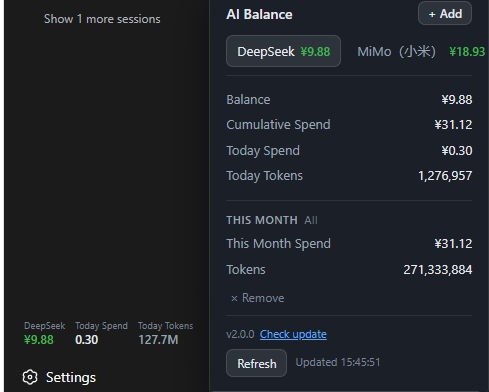
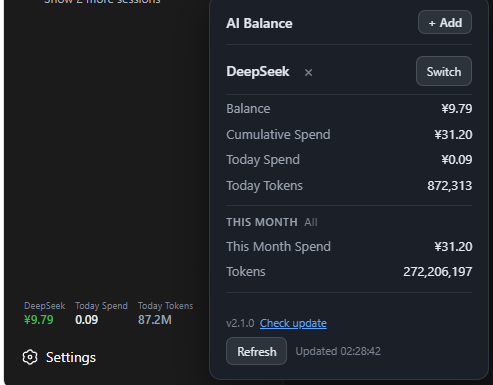
2.2.0

diff --git a/lib/client.js b/lib/client.js
@@ -66,6 +66,7 @@ window.__ModuleLoader__.load({
         spend: "消费",
         needSetup: "需设置",
         remove: "移除",
+        switch: "更换",
         mimoCookieHint: "MiMo 余额需用浏览器登录 Cookie 查询。请重新在浏览器登录 platform.xiaomimimo.com 后，将 Cookie 更新到 ~/.dsh/ai-balances.json 对应条目中。",
         readFailed: "读取失败：{0}",
         rawPrefix: "原始响应：",
@@ -148,6 +149,7 @@ window.__ModuleLoader__.load({
         spend: "Spend",
         needSetup: "Setup",
         remove: "Remove",
+        switch: "Switch",
         mimoCookieHint: "MiMo balance requires a browser login Cookie. Please log in to platform.xiaomimimo.com again, then update the Cookie in ~/.dsh/ai-balances.json.",
         readFailed: "Read failed: {0}",
         rawPrefix: "Raw response: ",
@@ -317,16 +319,17 @@ window.__ModuleLoader__.load({
         ".dshBalanceToday[data-state=err],.dshBalanceTodayTok[data-state=err]{color:#f85149}",
         ".dshBalanceToday[data-state=loading],.dshBalanceTodayTok[data-state=loading]{color:var(--dsw-alias-label-tertiary,#7b8494)}",
         ".dshBalanceToday[data-state=muted],.dshBalanceTodayTok[data-state=muted]{color:var(--dsw-alias-label-tertiary,#7b8494)}",
-        ".dshBalancePop{position:fixed;z-index:9999;width:280px;max-height:calc(100vh - 16px);overflow-y:auto;box-sizing:border-box;background:#1b1f27;border:1px solid rgba(255,255,255,.1);border-radius:12px;box-shadow:0 12px 40px rgba(0,0,0,.5);padding:14px 16px;color:#e6e9ef;font-size:13px;line-height:1.5}",
+        ".dshBalancePop{position:fixed;z-index:9999;width:280px;max-height:calc(100vh - 16px);overflow-x:hidden;overflow-y:auto;box-sizing:border-box;background:#1b1f27;border:1px solid rgba(255,255,255,.1);border-radius:12px;box-shadow:0 12px 40px rgba(0,0,0,.5);padding:14px 16px;color:#e6e9ef;font-size:13px;line-height:1.5}",
         ".dshBalancePop::-webkit-scrollbar{width:8px}",
         ".dshBalancePop::-webkit-scrollbar-thumb{background:rgba(255,255,255,.18);border-radius:4px}",
-        ".dshBalancePop h4{margin:0 0 10px;font-size:14px;font-weight:600;display:flex;align-items:center;gap:8px}",
+        ".dshBalancePop h4{margin:0 0 10px;padding-bottom:10px;border-bottom:1px solid rgba(255,255,255,.08);font-size:14px;font-weight:600;display:flex;align-items:center;gap:8px}",
         ".dshBalanceRow{display:flex;justify-content:space-between;gap:12px;padding:3px 0}",
         ".dshBalanceRow span:first-child{color:#9aa4b2}",
         ".dshBalanceRow span:last-child{font-variant-numeric:tabular-nums}",
+        ".dshBalanceDivider{height:0;margin:8px 0;border-top:1px solid rgba(255,255,255,.08)}",
         // Footer 内的按钮不许被 flex 压缩成单字符宽度导致文字竖排（英文 label 更长时容易触发）。
         ".dshBalanceFoot .dshBalanceBtn,.dshBalanceFoot .dshBalanceVersionBtn{white-space:nowrap;flex-shrink:0}",
-        ".dshBalanceFoot{display:flex;flex-wrap:wrap;justify-content:space-between;align-items:center;gap:6px;margin-top:12px;padding-top:10px;border-top:1px solid rgba(255,255,255,.08);color:#7b8494;font-size:11px}",
+        ".dshBalanceFoot{display:flex;flex-wrap:wrap;justify-content:space-between;align-items:center;gap:6px;margin-top:12px;padding-top:10px;color:#7b8494;font-size:11px}",
         ".dshBalanceBtn{appearance:none;cursor:pointer;background:#2d333b;color:#e6e9ef;border:1px solid rgba(255,255,255,.12);border-radius:7px;padding:4px 10px;font:inherit;font-size:12px}",
         ".dshBalanceBtn:hover{background:#363d47}",
         ".dshBalanceVersion{display:flex;align-items:center;gap:6px;font-size:11px;color:#7b8494}",
@@ -340,7 +343,7 @@ window.__ModuleLoader__.load({
         ".dshBalanceDot[data-state=ok]{background:#3fb950}",
         ".dshBalanceDot[data-state=err]{background:#f85149}",
         ".dshBalanceDot[data-state=loading],.dshBalanceDot[data-state=muted]{background:#d29922}",
-        ".dshBalanceUsage{display:block;margin-top:12px;padding-top:11px;border-top:1px solid rgba(255,255,255,.08)}",
+        ".dshBalanceUsage{display:block;margin-top:6px}",
         ".dshBalanceUsageTitle{font-size:11px;color:#7b8494;letter-spacing:.04em;margin:0 0 2px;display:flex;align-items:baseline;gap:6px}",
         ".dshBalanceUsageTitle b{color:#9aa4b2;font-weight:600;text-transform:uppercase}",
         ".dshBalanceDaily{margin-top:6px;font-size:12px}",
@@ -372,11 +375,23 @@ window.__ModuleLoader__.load({
         ".dshBalanceProvCookie{appearance:none;cursor:pointer;background:transparent;border:0;color:#58a6ff;font:inherit;font-size:11px;text-decoration:underline;padding:0 4px;flex:none}",
         ".dshBalanceProvCookie:hover{color:#79b8ff}",
         ".dshBalanceTabs{display:flex;gap:6px;margin-bottom:10px;border-bottom:1px solid rgba(255,255,255,.08);padding-bottom:8px}",
-        ".dshBalanceTab{appearance:none;cursor:pointer;background:transparent;border:0;color:#9aa4b2;font:inherit;font-size:13px;padding:5px 10px;border-radius:7px;display:flex;align-items:center;gap:6px;flex:1;justify-content:center;white-space:nowrap}",
-        ".dshBalanceTab:hover{color:#e6e9ef;background:rgba(255,255,255,.05)}",
-        ".dshBalanceTab.active{color:#e6e9ef;background:#2d333b;border:1px solid rgba(255,255,255,.12)}",
+        ".dshBalanceTabsRow{display:flex;align-items:flex-end;gap:8px;margin-bottom:0;padding-bottom:8px;border-bottom:1px solid rgba(255,255,255,.08)}",
+        ".dshBalanceTabsRow .dshBalanceTabs{margin-bottom:0;border-bottom:none;padding-bottom:0;flex:1}",
+        ".dshBalanceTabContent{padding-bottom:8px;border-bottom:1px solid rgba(255,255,255,.08)}",
+        ".dshBalanceSwitchBtn{appearance:none;cursor:pointer;flex-shrink:0;background:#2d333b;border:1px solid rgba(255,255,255,.14);color:#e6e9ef;font:inherit;font-size:12px;padding:5px 10px;border-radius:7px;white-space:nowrap}",
+        ".dshBalanceSwitchBtn:hover{background:#353c47}",
+        ".dshBalanceTab{position:relative;appearance:none;cursor:default;background:transparent;border:0;color:#e6e9ef;font:inherit;font-size:13px;padding:5px 10px;border-radius:7px;display:flex;align-items:center;gap:6px;flex:0 1 auto;justify-content:flex-start;white-space:nowrap}",
+        ".dshBalanceTab.active{padding-left:0}",
         ".dshBalanceTabBal{font-size:12px;font-weight:600;color:#3fb950;font-variant-numeric:tabular-nums}",
         ".dshBalanceTabBal[data-state=err]{color:#f85149}",
+        ".dshBalanceTabTitle{font-size:14px;font-weight:600}",
+        ".dshBalanceTabMenu{appearance:none;cursor:pointer;margin-left:4px;font-size:16px;font-weight:600;line-height:1;color:#7b8494;user-select:none;width:18px;height:18px;display:flex;align-items:center;justify-content:center;border-radius:4px}",
+        ".dshBalanceTabMenu:hover{color:#f85149;background:rgba(248,81,73,.12)}",
+        ".dshBalanceCtxMenu{position:absolute;z-index:10000;background:#161b22;border:1px solid rgba(255,255,255,.12);border-radius:6px;box-shadow:0 8px 24px rgba(0,0,0,.35);padding:4px 0;min-width:120px}",
+        ".dshBalanceCtxMenuItem{width:100%;text-align:left;background:transparent;border:none;color:#c9d1d9;padding:6px 12px;font-size:13px;cursor:pointer;font:inherit}",
+        ".dshBalanceCtxMenuItem:hover{background:#21262d;color:#58a6ff}",
+        ".dshBalanceCtxMenuItem:disabled{cursor:default;color:#5b626a}",
+        ".dshBalanceCtxMenuItem:disabled:hover{background:transparent;color:#5b626a}",
         ".dshBalanceProvActions{display:flex;gap:8px;margin-top:10px;align-items:center}",
         ".dshBalanceProvActions .dshBalanceProvRemove{font-size:12px;color:#7b8494}",
         ".dshBalanceProvActions .dshBalanceProvRemove:hover{color:#f85149}",
@@ -815,10 +830,31 @@ window.__ModuleLoader__.load({
       const saveBtn = popRef.querySelector("[data-save]");
       if (saveBtn !== null) saveBtn.addEventListener("click", () => onSaveProvider());
       popRef.querySelectorAll("[data-tab]").forEach((tb) => {
-        tb.addEventListener("click", () => { activeProviderId = tb.getAttribute("data-tab"); renderValue(lastEnvelope, lastUsage); renderPopover(); });
+        tb.addEventListener("click", () => {
+          closeContextMenu();
+        });
       });
-      popRef.querySelectorAll("[data-remove]").forEach((rb) => {
-        rb.addEventListener("click", () => onRemoveProvider(rb.getAttribute("data-remove")));
+      const tabsEl = popRef.querySelector("[data-tabs]");
+      if (tabsEl !== null) {
+        tabsEl.style.cursor = "default";
+      }
+      const switchBtn = popRef.querySelector("[data-switch]");
+      if (switchBtn !== null) {
+        switchBtn.addEventListener("click", () => {
+          if (providers.length <= 1) return;
+          const rect = switchBtn.getBoundingClientRect();
+          const popRect = popRef.getBoundingClientRect();
+          renderProviderSwitchMenu(rect.left - popRect.left, rect.bottom - popRect.top);
+        });
+      }
+      popRef.querySelectorAll("[data-tab-remove]").forEach((mb) => {
+        mb.addEventListener("click", (e) => {
+          e.preventDefault();
+          e.stopPropagation();
+          const tabEl = mb.closest("[data-tab]");
+          if (!tabEl) return;
+          onRemoveProvider(tabEl.getAttribute("data-tab"));
+        });
       });
       const kindSel = popRef.querySelector("[data-f-kind]");
       if (kindSel !== null) kindSel.addEventListener("change", (e) => { addFormState.kind = e.target.value; });
@@ -837,6 +873,14 @@ window.__ModuleLoader__.load({
             aiGuideBtn.textContent = t("copyFailed");
           }
           setTimeout(() => aiGuideBtn.textContent = t("aiGuide"), 1500);
+        });
+      }
+      const aiGuideCookieBtn = popRef.querySelector("[data-ai-guide-cookie]");
+      if (aiGuideCookieBtn !== null) {
+        aiGuideCookieBtn.addEventListener("click", () => {
+          cookieEditId = aiGuideCookieBtn.getAttribute("data-provider-id");
+          cookieManualMode = false;
+          renderPopover();
         });
       }
       const cookieCancel = popRef.querySelector("[data-cookie-cancel]");
@@ -925,6 +969,7 @@ window.__ModuleLoader__.load({
       if (usageSrc && usageSrc.todayTokens) {
         rows += '<div class="dshBalanceRow"><span>' + t("todayTokens") + "</span><span>" + String(usageSrc.todayTokens) + "</span></div>";
       }
+      rows += '<div class="dshBalanceDivider"></div>';
       return rows + usageHtmlOf(usageEnvelope);
     }
 
@@ -985,7 +1030,10 @@ window.__ModuleLoader__.load({
       rows += '<div class="dshBalanceRow"><span>' + t("todaySpend") + "</span><span>" + (today ? fmtYuan(today.cost) : "¥0.00") + "</span></div>";
       rows += '<div class="dshBalanceRow"><span>' + t("todayTokens") + "</span><span>" + (today ? fmtInt(today.tokens) : "0") + "</span></div>";
       // 本月消耗区块（与 DeepSeek 同款样式）
-      rows += mimoUsageHtml(usage);
+      const usageBlock = mimoUsageHtml(usage);
+      if (usageBlock) {
+        rows += '<div class="dshBalanceDivider"></div>' + usageBlock;
+      }
       return rows;
     }
 
@@ -1020,8 +1068,12 @@ window.__ModuleLoader__.load({
         if (bal.ok === false) { balanceText = bal.needCookie ? t("needSetup") : t("failed"); stateAttr = ' data-state="err"'; }
         else balanceText = formatProviderBalance(bal.data);
       }
+      const removeBtn =
+        '<span class="dshBalanceTabMenu" data-tab-remove type="button" role="button" aria-label="' + t("remove") + '" title="' + t("remove") + '">×</span>';
+      const titleCls = isActive ? ' class="dshBalanceTabTitle"' : '';
+      const balanceSpan = isActive ? '' : '<span class="dshBalanceTabBal"' + stateAttr + ">" + balanceText + "</span>";
       return '<button class="dshBalanceTab' + (isActive ? " active" : "") + '" type="button" data-tab="' + escapeHtml(p.id) + '">' +
-        escapeHtml(label) + '<span class="dshBalanceTabBal"' + stateAttr + ">" + balanceText + "</span></button>";
+        '<span' + titleCls + '>' + escapeHtml(label) + '</span>' + balanceSpan + removeBtn + "</button>";
     }
 
     /** Build the detail pane for the currently active provider. */
@@ -1030,15 +1082,16 @@ window.__ModuleLoader__.load({
       if (p.kind === "deepseek") detail = deepseekDetailHtml(lastEnvelope, lastUsage);
       else if (p.kind === "mimo") detail = mimoDetailHtml(bal);
 
+      // 移除操作已放到 provider tab 的右键菜单里，详情区不再显示。
       let actions = "";
-      // 所有 provider 详情操作区统一只保留「× 移除」（AI 引导配置入口保留在添加表单里）。
-      actions = '<div class="dshBalanceProvActions">' +
-        '<button class="dshBalanceProvRemove" type="button" data-remove="' + escapeHtml(p.id) + '" title="' + t("remove") + '">× ' + t("remove") + "</button></div>";
 
       let errHint = "";
       if (bal && bal.ok === false) {
         if (bal.needCookie) {
-          errHint = '<div class="dshBalanceHint" style="margin-top:8px">' + t("mimoCookieHint") + "</div>";
+          errHint = '<div class="dshBalanceHint" style="margin-top:8px">' + t("mimoCookieHint") + "</div>" +
+            '<div class="dshBalanceProvActions" style="margin-top:8px">' +
+            '<button class="dshBalanceBtn" type="button" data-ai-guide-cookie data-provider-id="' + escapeHtml(p.id) + '">' + t("aiGuide") + "</button>" +
+            "</div>";
         } else {
           const raw = bal.data && bal.data.raw ? String(bal.data.raw).slice(0, 260) : "";
           errHint = '<div class="dshBalanceHint" style="margin-top:8px">' + t("readFailed", String(bal.error || "").slice(0, 50)) +
@@ -1133,9 +1186,12 @@ window.__ModuleLoader__.load({
           body += '<div class="dshBalanceHint">' + t("noProviders") + "</div>";
         } else {
           const activeP = providers.find((p) => p.id === activeProviderId) || activeProvider();
-          body += '<div class="dshBalanceTabs">';
-          for (const p of providers) {
-            body += providerTabHtml(p, balances[p.id], p.id === activeP.id);
+          body += '<div class="dshBalanceTabsRow">';
+          body += '<div class="dshBalanceTabs" data-tabs>';
+          body += providerTabHtml(activeP, balances[activeP.id], true);
+          body += '</div>';
+          if (providers.length > 1) {
+            body += '<button class="dshBalanceSwitchBtn" type="button" data-switch title="' + t("switch") + '">' + t("switch") + "</button>";
           }
           body += '</div><div class="dshBalanceTabContent">' + providerContentHtml(activeP, balances[activeP.id]) + "</div>";
         }
@@ -1198,7 +1254,6 @@ window.__ModuleLoader__.load({
 
     /** Handle the "remove" action for a provider. */
     async function onRemoveProvider(id) {
-      if (id === "deepseek") return;
       if (!window.confirm(t("confirmRemove"))) return;
       await removeProvider(id);
       if (activeProviderId === id) activeProviderId = null;
@@ -1221,9 +1276,65 @@ window.__ModuleLoader__.load({
       }
     }
 
+    /** Close the context menu if it is open. */
+    function closeContextMenu() {
+      if (contextMenuEl !== null) {
+        contextMenuEl.remove();
+        contextMenuEl = null;
+      }
+    }
+
+    /** Render a dropdown menu to switch between providers. */
+    function renderProviderSwitchMenu(x, y) {
+      closeContextMenu();
+      if (popRef === null || providers.length <= 1) return;
+      const menu = document.createElement("div");
+      menu.className = "dshBalanceCtxMenu";
+      for (const p of providers) {
+        const meta = PROVIDER_META[p.kind] || { label: p.kind };
+        const label = p.label || meta.label;
+        const bal = balances[p.id];
+        let balanceText = "—";
+        if (bal) {
+          if (bal.ok === false) balanceText = bal.needCookie ? t("needSetup") : t("failed");
+          else balanceText = formatProviderBalance(bal.data);
+        }
+        const item = document.createElement("button");
+        item.className = "dshBalanceCtxMenuItem";
+        item.type = "button";
+        item.textContent = label + "  " + balanceText;
+        if (p.id === activeProviderId) {
+          item.disabled = true;
+          item.title = currentLang === "en" ? "Currently viewing" : "当前正在查看";
+        } else {
+          item.addEventListener("click", () => {
+            closeContextMenu();
+            activeProviderId = p.id;
+            renderValue(lastEnvelope, lastUsage);
+            renderPopover();
+          });
+        }
+        menu.appendChild(item);
+      }
+      popRef.appendChild(menu);
+      contextMenuEl = menu;
+      const popRect = popRef.getBoundingClientRect();
+      let left = x;
+      let top = y;
+      const menuW = menu.offsetWidth || 160;
+      const menuH = menu.offsetHeight || 100;
+      if (left + menuW > popRect.width) left = Math.max(4, popRect.width - menuW - 4);
+      if (left < 4) left = 4;
+      if (top + menuH > popRect.height) top = Math.max(4, popRect.height - menuH - 4);
+      if (top < 4) top = 4;
+      menu.style.left = left + "px";
+      menu.style.top = top + "px";
+    }
+
     /** Close the popover and detach the outside-click listener. */
     function closePopover() {
       if (popRef === null) return;
+      closeContextMenu();
       popRef.remove();
       popRef = null;
       if (outsideHandler !== null) {
@@ -1271,6 +1382,10 @@ window.__ModuleLoader__.load({
       pop.className = "dshBalancePop";
       document.body.appendChild(pop);
       popRef = pop;
+      // 点击弹窗内非菜单区域时收起右键菜单。
+      pop.addEventListener("mousedown", (e) => {
+        if (contextMenuEl && !contextMenuEl.contains(e.target)) closeContextMenu();
+      });
       // renderPopover() 内部会按入口位置重新定位弹窗。
       renderPopover();
 
@@ -1306,6 +1421,10 @@ window.__ModuleLoader__.load({
     let cookieExtracted = "";
     /** When true, the cookie editor shows the manual textarea instead of the AI chat guide. */
     let cookieManualMode = false;
+    /** Provider switch dropdown menu state. */
+    let contextMenuX = 0;
+    let contextMenuY = 0;
+    let contextMenuEl = null;
     /** Result of the most recent /ai-balances-sync call (used for UI hint). */
     let lastSyncResult = null;
     let timer = null;

diff --git a/lib/index.js b/lib/index.js
@@ -231,8 +231,12 @@ async function syncProvidersFromDshSettings() {
         skipped++;
         continue;
       }
-      store.push({ ...cand, enabled: true });
-      added++;
+      // 仅当 store 完全为空（首次初始化，或用户清空了全部 provider）时，才从 dsh 设置自动加回；
+      // 否则用户已主动删除该项，不自动复活，确保「删除」持久生效（重启 dsh 也不会回来）。
+      if (store.length === 0) {
+        store.push({ ...cand, enabled: true });
+        added++;
+      }
     }
     if (added > 0) await writeStore(store);
 
@@ -1084,11 +1088,6 @@ function apply(ctx) {
             if (!id) {
               res.writeHead(400, { "content-type": "application/json; charset=utf-8" });
               res.end(JSON.stringify({ ok: false, error: "缺少 id" }));
-              return;
-            }
-            if (id === "deepseek") {
-              res.writeHead(400, { "content-type": "application/json; charset=utf-8" });
-              res.end(JSON.stringify({ ok: false, error: "DeepSeek 不能移除" }));
               return;
             }
             const store = await ensureStore();

diff --git a/README_EN.md b/README_EN.md
@@ -2,17 +2,17 @@
 
 English | [中文](README.md)
 
-A multi-provider AI balance widget for the dsh web sidebar. **DeepSeek** is built in; add **MiMo (Xiaomi)** and others with one click. Auto-refreshes every 30 seconds.
+A multi-provider AI balance widget for the dsh web sidebar. **DeepSeek** is built in; add **MiMo (Xiaomi)** from the popover. Auto-refreshes every 30 seconds.
 
 ## Features
 
 ![AI balance sidebar](assets/screenshot-en.png)
 
 - Sidebar shows Balance / Today spend / Today tokens, auto-refresh every 30 s; values follow the selected provider
-- **Tabs** in the popover switch between providers (DeepSeek / MiMo…), sidebar updates with the tab
-- **"＋ Add"** button: add MiMo or any other AI provider at any time
+- Popover header shows the current provider: a "**Switch**" menu changes to another added provider, and "**×**" removes it
+- "**+ Add**" button (top right): add **MiMo**
 - Details: balance, cumulative spend, today spend, today tokens, monthly usage (monthly spend / tokens)
-- **"AI 帮我配置"**: credentials are handled by your AI — no digging through cookies by hand
+- "**AI 帮我配置**": one click copies a prompt; send it to your AI and it guides you through fetching credentials and writing them locally — no digging through cookies by hand
 - Version shown in the popover footer; one-click auto-update when a new version is available
 
 ## Install
@@ -25,18 +25,15 @@ dsh plugin --profile web add dsh-deepseek-balance-widget
 
 Installed from npm and auto-registered by dsh. **Restart `dsh web`** and the balance button appears in the sidebar.
 
-Or just tell your AI: *Install the dsh-deepseek-balance-widget plugin for me via npm.*
+Or just tell your AI:
+
+> Install the dsh-deepseek-balance-widget plugin for me via npm.
 
 ## Configuration
 
-On first use the plugin creates a DeepSeek entry and reads your local `DEEPSEEK_API_KEY`. Other providers are added via "＋ Add". Either:
+On first use the plugin creates a DeepSeek entry and reads your local `DEEPSEEK_API_KEY`.
 
-**Option 1: Add inside the popover**
-1. Open the popover and click "＋ Add".
-2. Pick a provider, then click "AI 帮我配置" and send the copied prompt to your AI.
-3. Your AI walks you through getting the credentials and writes them locally.
-
-**Option 2: Just tell your AI**
+To add MiMo, open the popover, click "+ Add", then "AI 帮我配置", and send the copied prompt to your AI. Or just tell your AI:
 
 > Configure dsh-deepseek-balance-widget for me.
 
@@ -48,7 +45,7 @@ The AI takes care of everything: asks for your API key / guides you through gett
 | DeepSeek usage | `DEEPSEEK_PLATFORM_TOKEN` | Optional, cumulative / monthly / today stats |
 | MiMo (Xiaomi) | Login cookie | Guided by your AI |
 
-Credentials are stored locally in `~/.dsh/ai-balances.json`; nothing is shipped with the plugin.
+Credentials are stored locally in `~/.dsh/ai-balances.json`; nothing is shipped with the plugin and nothing is uploaded.
 
 ## Uninstall
 
@@ -56,7 +53,9 @@ Credentials are stored locally in `~/.dsh/ai-balances.json`; nothing is shipped 
 dsh plugin --profile web rm dsh-deepseek-balance-widget
 ```
 
-Or just tell your AI: *Uninstall the dsh-deepseek-balance-widget plugin for me via npm.*
+Or just tell your AI:
+
+> Uninstall the dsh-deepseek-balance-widget plugin for me via npm.
 
 ## License
 
